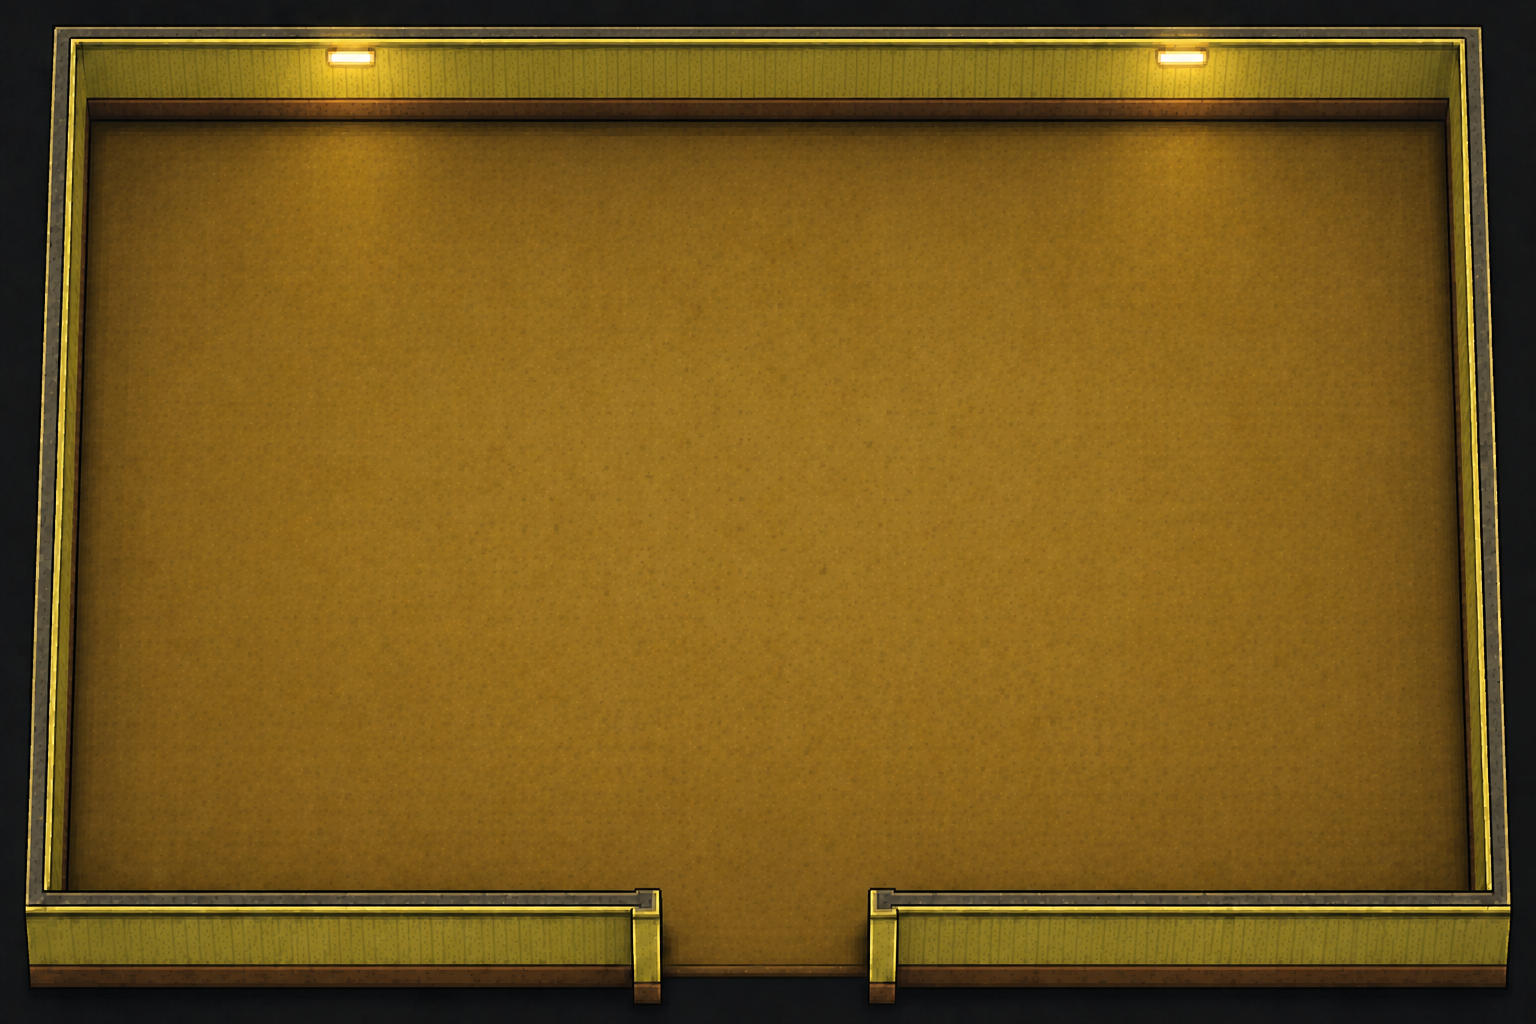
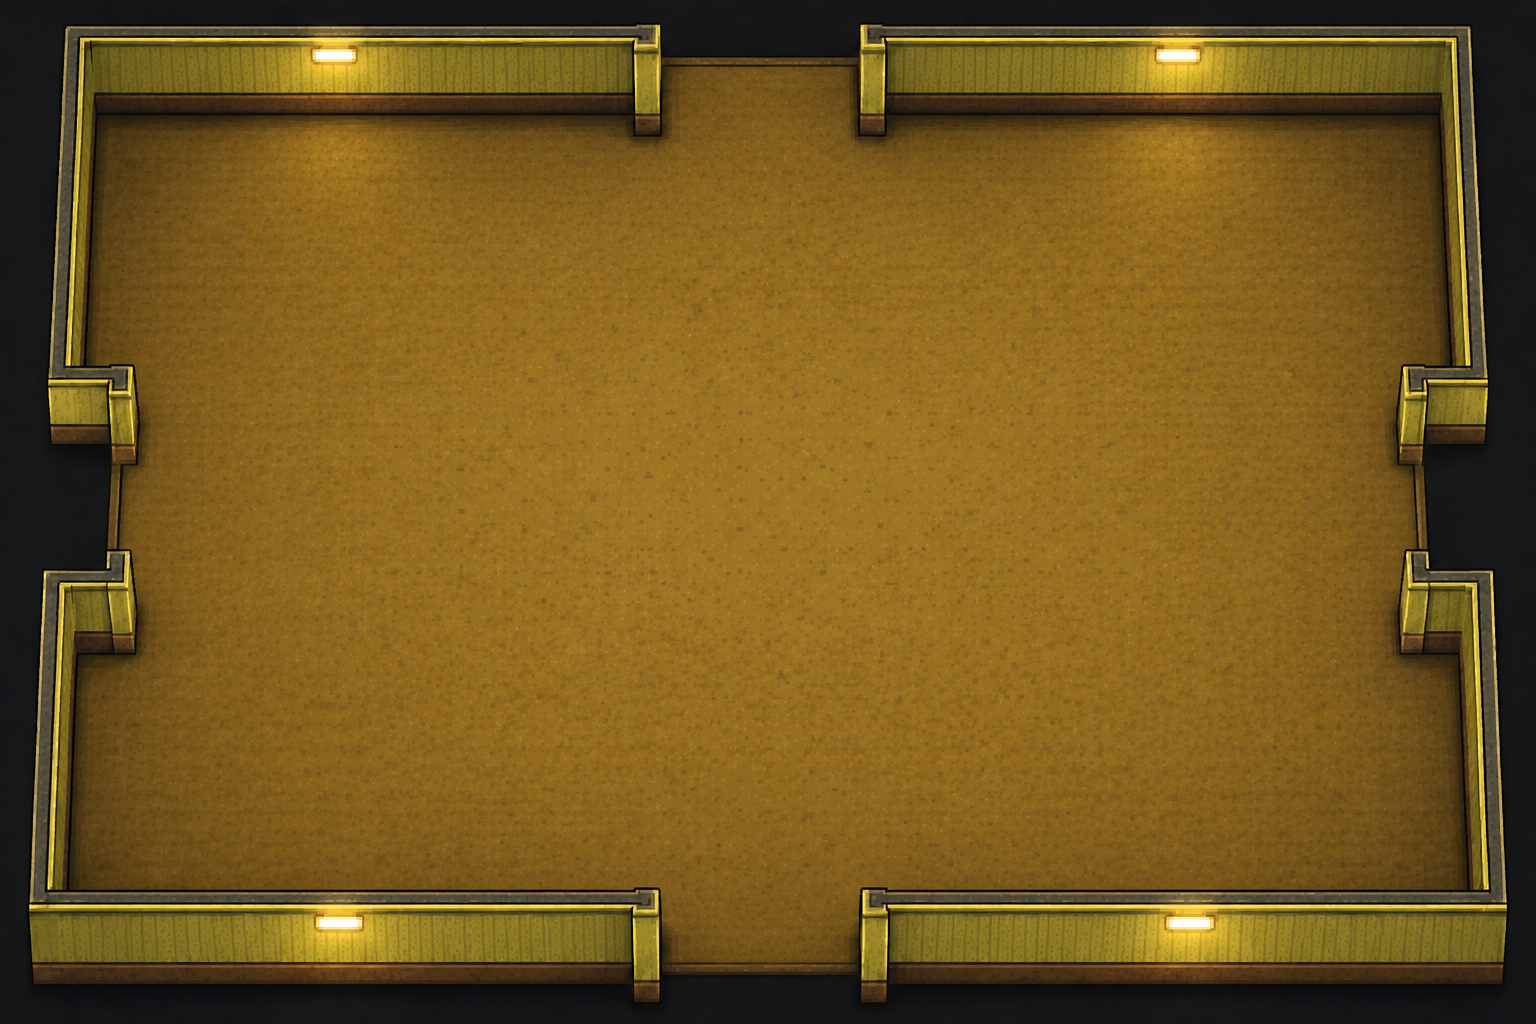
Комната барона доступна слева от главного зала
Тандем и Нефтяной барон теперь доступны из главного зала независимо. Курьерская остаётся за бароном слева. Боковые проёмы, построение группы при входе, мини-карта и проверки маршрутов соответствуют новой схеме.

Changed region(s): [[0.0, 0.0, 1.0, 1.0]]

diff --git a/tools/test_network.py b/tools/test_network.py
@@ -173,8 +173,8 @@ def smoke(directory: Path, peers: list[Peer]):
     print("ok: real door movement transfers the party and replicates enemies/waves", flush=True)
 
     host.call("fixture_baron_door")
-    host.call("pump", y=-1)
-    arrived = host.until(lambda s: s["room"] == "oil_baron", "north door into oil baron room")
+    host.call("pump", x=-1)
+    arrived = host.until(lambda s: s["room"] == "oil_baron", "west door into oil baron room")
     host.call("pump")
     roster = ["ice_agent", "ice_agent", "oil_baron", "soldier", "soldier_dark"]
     for client in clients:

diff --git a/docs/OIL_BARON.md b/docs/OIL_BARON.md
@@ -1,8 +1,9 @@
 # Нефтяной барон
 
 Добавлен 10 сентября 2026 по просьбе Егора. Путь: Приёмная → Главный зал →
-Тандем → Нефтяной барон. Северный выход после Тандема открывается при его
-поражении. Обратный выход из новой комнаты — после уничтожения всех врагов.
+Нефтяной барон через левый выход. Тандем доступен отдельно сверху: проходить
+его перед бароном не требуется. Курьерская находится ещё левее, за бароном.
+Выходы из комнаты босса открываются после уничтожения всех врагов.
 
 Источник — [папка Саши от 9 сентября](https://drive.google.com/drive/folders/1BnpzUL7hGMRELMh7QB4HYES1OsYbTJl6).
 При проверке 10 сентября: десять PNG, без текстовых документов и заполненных
@@ -22,7 +23,7 @@
 Состав конечный и одинаков для 1–4 игроков: босс, два солдата, два агента.
 Уникальные органы этой партии ещё не заданы.
 
-Фон — копия `room_north.png`: нового фона в партии нет. Камера держит
+Фон — копия `room_center.png` с боковыми проёмами: нового фона в партии нет. Камера держит
 качалку в кадре при входе и следует за игроком у краёв. Стойки и замах ICE
 используют отдельные кадры, солдаты — профиль и анфас. Кадров ходьбы нет.
 

diff --git a/CLAUDE.md b/CLAUDE.md
@@ -161,11 +161,12 @@ tools/status.sh
 синтезированных WAV, генератор `tools/make_sounds.py`, громкость в лобби.
 Контрольный рендер — `tools/preview_coop.gd`, руководство — `docs/COOP.md`.
 
-10 сентября добавлена шестая комната севернее Тандема: Нефтяной барон и
+10 сентября добавлена шестая комната слева от главного зала: Нефтяной барон и
 четыре охранника из партии Саши от 9 сентября. Босс стреляет веером после
 предупреждения, два варианта солдат держат дистанцию, агенты ICE бьют
 дубинкой после замаха. В партии только PNG, поэтому механики — первый
-вариант для проверки Егором. Фон повторяет северный. Формат сейва 15
+вариант для проверки Егором. Тандем доступен отдельно сверху, курьерская —
+слева за бароном. Фон повторяет центральный с боковыми проёмами. Формат сейва 15
 сохранён. Материалы, поведение и команды проверки — `docs/OIL_BARON.md`.
 
 ## Кто делает игру

diff --git a/art/README.md b/art/README.md
@@ -87,7 +87,7 @@ tools/run.sh        # запустить стенд
 Поднятая дубинка не входит в расчёт роста. Альфа исходников сохранена через
 порог 128; масштабирование ближайшим пикселем без сглаживания.
 Качалка: высота 330 px, опора по нижнему центру. Комната `room_oil_baron.png`
-повторяет северную. Состав и первый вариант боя — `docs/OIL_BARON.md`.
+повторяет центральную с боковыми проёмами. Состав и первый вариант боя — `docs/OIL_BARON.md`.
 
 ### Получение исходников
 
